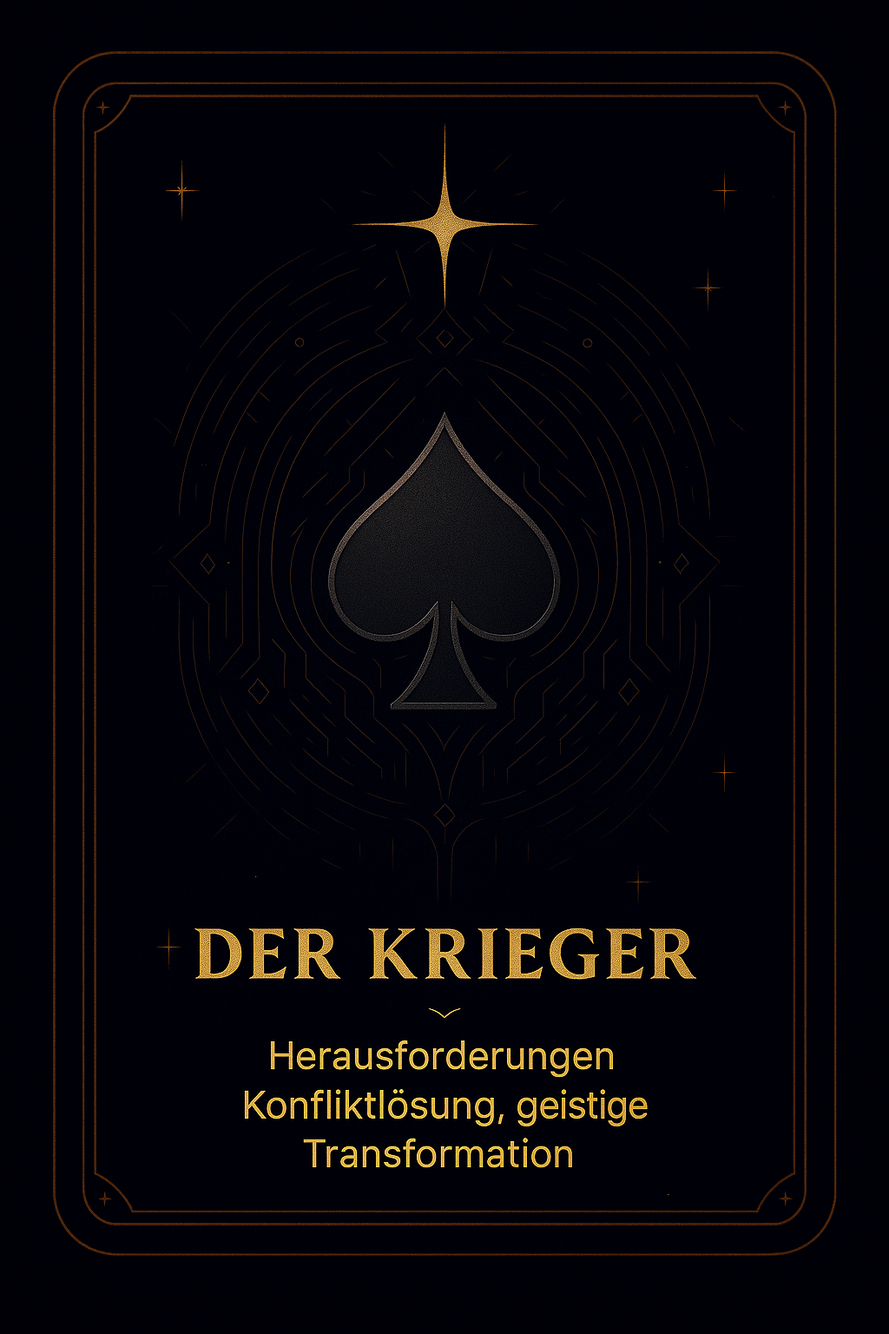
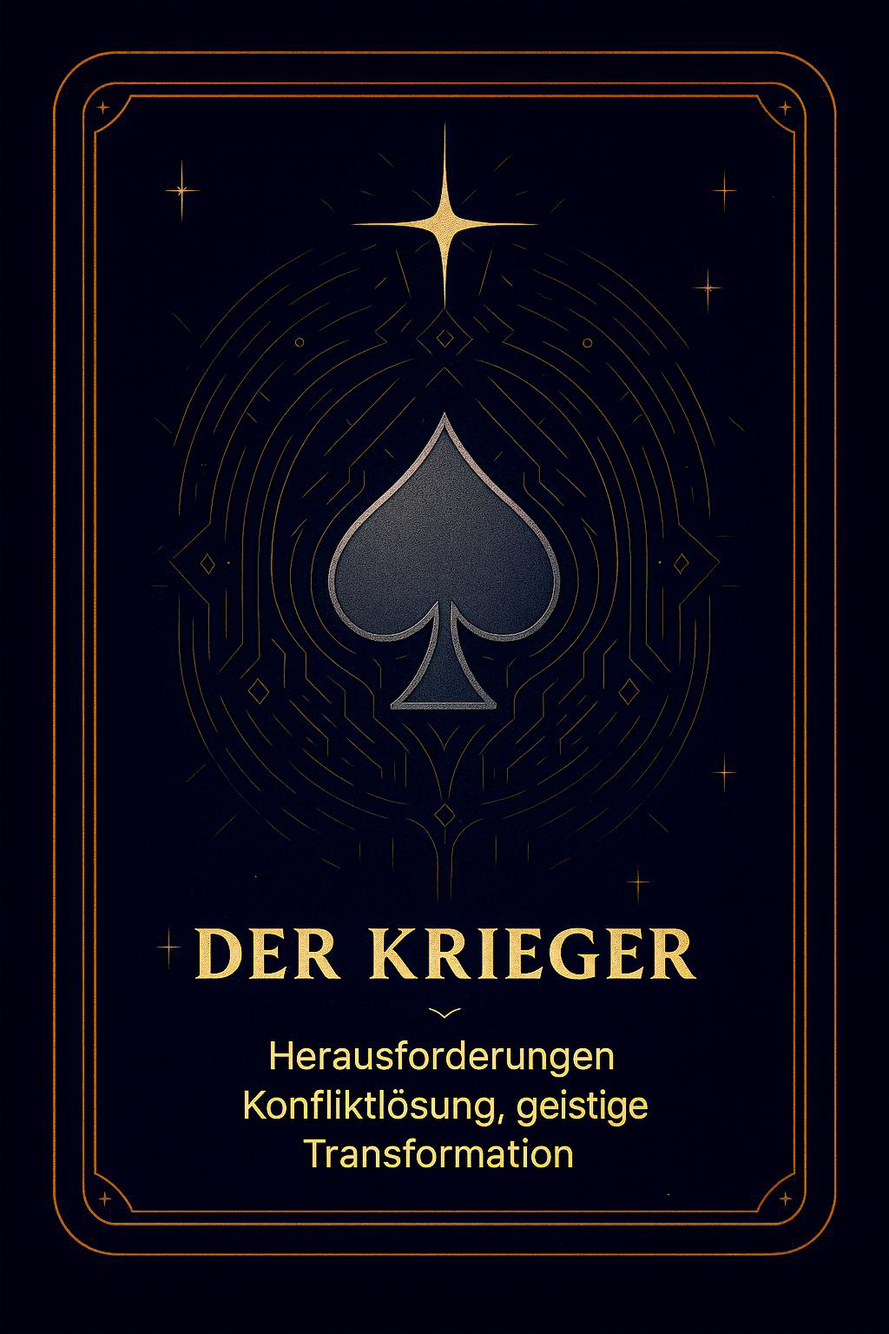
patch of last work days

diff --git a/app.js b/app.js
@@ -113,18 +113,107 @@ function createFateCore(registry, opts = {}) {
 // ...existing code...
 
 
-// VisualFX scaffold (no-op baseline to preserve current visuals)
+// VisualFX: ambient canvas with twinkles + rings and simple particles
 ;(function(){
+  let ctx = null, canvas = null, raf = null, dpr = 1;
+  let color = '#ffffff';
+  const stars = [];
+  let pulse = 0, pulseV = 0; // ring pulse
+
+  function pick(arr){ return arr[Math.floor(Math.random()*arr.length)]; }
+
   function initFX(canvasId){
-    var c = document.getElementById(canvasId);
-    if(!c) return;
-    function resize(){ c.width = window.innerWidth; c.height = window.innerHeight; }
+    canvas = document.getElementById(canvasId);
+    if(!canvas) return;
+    ctx = canvas.getContext('2d');
+    const media = window.matchMedia('(prefers-reduced-motion: reduce)');
+    function resize(){
+      dpr = Math.max(1, window.devicePixelRatio || 1);
+      canvas.width = Math.floor(window.innerWidth * dpr);
+      canvas.height = Math.floor(window.innerHeight * dpr);
+      canvas.style.width = window.innerWidth + 'px';
+      canvas.style.height = window.innerHeight + 'px';
+    }
     resize();
     window.addEventListener('resize', resize);
-    // No drawing yet to keep visuals identical
+
+    // seed twinkles
+    stars.length = 0;
+    for(let i=0;i<60;i++){
+      stars.push({
+        x: Math.random(), y: Math.random(), r: Math.random()*1.2+0.2, sp: Math.random()*0.6+0.2,
+      });
+    }
+
+    function loop(t){
+      const W = canvas.width, H = canvas.height;
+      ctx.clearRect(0,0,W,H);
+
+      // nebula tint
+      const g = ctx.createRadialGradient(W*0.5, H*0.35, 0, W*0.5, H*0.5, Math.max(W,H)*0.7);
+      g.addColorStop(0, hexToRgba(color, 0.08));
+      g.addColorStop(1, 'rgba(0,0,0,0)');
+      ctx.fillStyle = g; ctx.fillRect(0,0,W,H);
+
+      // twinkles
+      ctx.globalCompositeOperation = 'lighter';
+      for(const s of stars){
+        const a = (Math.sin(t*s.sp/800)+1)/2; // 0..1
+        ctx.fillStyle = hexToRgba(color, 0.12 + a*0.22);
+        const x = s.x*W, y = s.y*H; const rr = (s.r + a*0.8)*dpr;
+        ctx.beginPath(); ctx.arc(x,y,rr,0,Math.PI*2); ctx.fill();
+      }
+
+      // pulse rings
+      if(pulse > 0.001 && !media.matches){
+        pulse += pulseV; pulseV *= 0.985; pulse *= 0.985;
+        const cx = W*0.5, cy = H*0.5;
+        for(let i=0;i<3;i++){
+          ctx.strokeStyle = hexToRgba(color, 0.25 * Math.max(0, (pulse - i*0.15)));
+          ctx.lineWidth = Math.max(1, 2*dpr);
+          ctx.beginPath();
+          ctx.arc(cx, cy, Math.max(W,H)*0.12 + (pulse-i*0.15)*Math.max(W,H)*0.25, 0, Math.PI*2);
+          ctx.stroke();
+        }
+      }
+
+      ctx.globalCompositeOperation = 'source-over';
+      raf = requestAnimationFrame(loop);
+    }
+    if(raf) cancelAnimationFrame(raf);
+    raf = requestAnimationFrame(loop);
   }
-  function updateAmbient(suit){ /* no-op baseline */ }
-  function shootParticles(x, y, opts){ /* no-op baseline */ }
+
+  function updateAmbient(suit, opts={}){
+    const palette = {
+      hearts: '#ef4444', diamonds: '#3b82f6', clubs: '#10b981', spades: '#374151', schelm: '#f59e0b', stern: '#8b5cf6', default: '#ffffff'
+    };
+    color = palette[suit] || palette.default;
+    const strength = Math.max(0, Math.min(1, opts.intensity ?? 0.6));
+    pulse = Math.max(pulse, 0.5*strength);
+    pulseV = Math.max(pulseV, 0.08*strength);
+  }
+
+  function shootParticles(x, y, opts={}){
+    // lightweight radial burst at viewport coords
+    if(!ctx || !canvas) return;
+    const W = canvas.width, H = canvas.height;
+    const dprLocal = Math.max(1, window.devicePixelRatio||1);
+    const px = x*dprLocal, py = y*dprLocal;
+    const col = opts.color || color;
+    for(let i=0;i<14;i++){
+      const ang = Math.random()*Math.PI*2; const r = Math.random()*30*dprLocal;
+      ctx.fillStyle = hexToRgba(col, 0.35);
+      ctx.beginPath(); ctx.arc(px+Math.cos(ang)*r, py+Math.sin(ang)*r, Math.random()*2+0.5, 0, Math.PI*2); ctx.fill();
+    }
+  }
+
+  function hexToRgba(hex, a){
+    const m = /^#?([\da-f]{2})([\da-f]{2})([\da-f]{2})$/i.exec(hex);
+    if(!m) return `rgba(255,255,255,${a||1})`;
+    return `rgba(${parseInt(m[1],16)},${parseInt(m[2],16)},${parseInt(m[3],16)},${a||1})`;
+  }
+
   window.VisualFX = { initFX, updateAmbient, shootParticles };
 })();
 
@@ -273,8 +362,23 @@ const { createFateCore } = window.FortuneCore;
 
 
         const BonusBadge = () => (
-            <div className="absolute -top-3 right-3 text-[10px] px-2 py-1 rounded-full bg-white/80 text-black font-semibold" aria-label="Bonus-Farbe">BONUS</div>
+            <div className="absolute top-2 right-2 text-[10px] px-2 py-1 rounded-md bg-white/90 text-black font-bold shadow-md border border-white/60" aria-label="Bonus-Farbe">BONUS</div>
         );
+
+        const GlitchBadge = () => (
+            <div className="absolute top-2 left-2 text-[10px] px-2 py-1 rounded-md bg-red-500/90 text-white font-extrabold shadow-md border border-white/30" aria-label="Glitch-Modus">GLITCH</div>
+        );
+
+        const GlitchProgress = ({ value, max = 8 }) => {
+            const clamped = Math.max(0, Math.min(max, value));
+            return (
+                <div className="glitch-progress" role="status" aria-label={`Glitch-Fortschritt ${clamped}/${max}`}>
+                    {Array.from({ length: max }).map((_, i) => (
+                        <span key={i} className={`seg ${i < clamped ? 'on' : ''}`}></span>
+                    ))}
+                </div>
+            );
+        };
 
         const ChainMeter = ({ value }) => {
             const maxNodes = 5;
@@ -336,6 +440,8 @@ const { createFateCore } = window.FortuneCore;
             const [imageError, setImageError] = useState(false);
             const audioRef = useRef(null);
             const fireworkTimeoutRef = useRef(null);
+            const glitchCanvasRef = useRef(null);
+            const glitchAnimRef = useRef(null);
 
             const core = useMemo(() => createFateCore(SUIT_REGISTRY), []);
 
@@ -380,6 +486,112 @@ const { createFateCore } = window.FortuneCore;
                     clearTimeout(fireworkTimeoutRef.current);
                 }
             }, []);
+
+            // Init ambient background FX once
+            useEffect(() => {
+                try { window.VisualFX && window.VisualFX.initFX && window.VisualFX.initFX('veil-bg'); } catch {}
+            }, []);
+
+            // Pulse ambient FX when a reading arrives (stronger on higher glitch levels)
+            useEffect(() => {
+                if (!currentReading) return;
+                try {
+                    const suit = currentReading.suit;
+                    const strong = currentReading.glitch ? Math.min(1, (glitchChain || 1) / 6) : 0.4;
+                    window.VisualFX && window.VisualFX.updateAmbient && window.VisualFX.updateAmbient(suit, { intensity: strong });
+                } catch {}
+            }, [currentReading, glitchChain]);
+
+            // Level 4 canvas overlay: echo phantoms orbiting around the card
+            useEffect(() => {
+                const canvas = glitchCanvasRef.current;
+                const holder = canvas?.parentElement;
+                if (!canvas || !holder) return;
+                const level = currentReading?.glitch ? Math.min(6, Math.max(1, glitchChain || 1)) : 0;
+
+                // Resize canvas to match holder's CSS pixels
+                const resize = () => {
+                    const rect = holder.getBoundingClientRect();
+                    const dpr = Math.max(1, window.devicePixelRatio || 1);
+                    canvas.width = Math.floor(rect.width * dpr);
+                    canvas.height = Math.floor(rect.height * dpr);
+                    canvas.style.width = rect.width + 'px';
+                    canvas.style.height = rect.height + 'px';
+                };
+                resize();
+
+                let raf = null;
+                const ctx = canvas.getContext('2d');
+                const color = getSuitMeta(currentReading?.suit || 'hearts').flash;
+                let t0 = performance.now();
+
+                function roundRectPath(ctx, x, y, w, h, r){
+                    const rr = Math.min(r, Math.min(w, h) / 2);
+                    ctx.beginPath();
+                    ctx.moveTo(x + rr, y);
+                    ctx.arcTo(x + w, y, x + w, y + h, rr);
+                    ctx.arcTo(x + w, y + h, x, y + h, rr);
+                    ctx.arcTo(x, y + h, x, y, rr);
+                    ctx.arcTo(x, y, x + w, y, rr);
+                    ctx.closePath();
+                }
+
+                const animate = (now) => {
+                    const dt = (now - t0) / 1000;
+                    t0 = now;
+                    const dpr = Math.max(1, window.devicePixelRatio || 1);
+                    const W = canvas.width;
+                    const H = canvas.height;
+                    ctx.clearRect(0, 0, W, H);
+
+                    if (prefersReducedMotion || level < 4) return; // draw nothing for low level
+
+                    // Echos orbit around the center
+                    const cx = W/2, cy = H/2;
+                    const baseW = W * 0.86;
+                    const baseH = H * 0.86;
+                    const radius = Math.min(baseW, baseH) * 0.055;
+                    const ghosts = 3;
+                    for (let i=0;i<ghosts;i++){
+                        const ang = (now/900 + i * (Math.PI*2/ghosts));
+                        const dx = Math.cos(ang) * (W * 0.02);
+                        const dy = Math.sin(ang) * (H * 0.02);
+                        const ox = cx - baseW/2 + dx;
+                        const oy = cy - baseH/2 + dy;
+                        ctx.globalCompositeOperation = 'lighter';
+                        ctx.lineWidth = Math.max(1, 2 * dpr);
+                        ctx.strokeStyle = color;
+                        ctx.globalAlpha = 0.18;
+                        roundRectPath(ctx, ox, oy, baseW, baseH, radius);
+                        ctx.stroke();
+                    }
+
+                    // Soft radial bloom
+                    const grd = ctx.createRadialGradient(cx, cy, 0, cx, cy, Math.max(W,H)/2);
+                    grd.addColorStop(0, 'rgba(255,255,255,0.10)');
+                    grd.addColorStop(1, 'rgba(255,255,255,0)');
+                    ctx.globalAlpha = 0.4;
+                    ctx.globalCompositeOperation = 'lighter';
+                    ctx.fillStyle = grd;
+                    ctx.fillRect(0,0,W,H);
+
+                    raf = requestAnimationFrame(animate);
+                };
+
+                if (level >= 4 && !prefersReducedMotion) {
+                    raf = requestAnimationFrame(animate);
+                }
+
+                glitchAnimRef.current = raf;
+                window.addEventListener('resize', resize);
+                return () => {
+                    window.removeEventListener('resize', resize);
+                    if (glitchAnimRef.current) cancelAnimationFrame(glitchAnimRef.current);
+                    glitchAnimRef.current = null;
+                    const ctx2 = canvas.getContext('2d');
+                    ctx2 && ctx2.clearRect(0,0,canvas.width, canvas.height);
+                };
+            }, [currentReading, glitchChain, prefersReducedMotion]);
 
             const drawFateCard = () => {
                 if (isDrawing) return;
@@ -549,13 +761,22 @@ const { createFateCore } = window.FortuneCore;
                                     <div
                                         className={`card-holder card-reel ${buildGlitchClass(currentReading)} animate-cardFromDeck ${
                                             SUIT_FONT_CLASS[currentReading.suit] || ''
-                                        }`}
-                                        style={{ '--card-color-flash': getSuitMeta(currentReading.suit).flash }}
+                                        } cursor-pointer`}
+                                        style={{
+                                            '--card-color-flash': getSuitMeta(currentReading.suit).flash,
+                                            '--g-intensity': Math.min(4, Math.max(0, glitchChain || 0)),
+                                        }}
                                         data-suit={currentReading.suit}
+                                        data-glitch-level={currentReading.glitch ? Math.min(6, Math.max(1, glitchChain || 1)) : 0}
+                                        role="button"
+                                        aria-label="Erneut ziehen"
+                                        title="Erneut ziehen"
+                                        onClick={() => { if (!isDrawing) drawFateCard(); }}
                                     >
                                         {currentReading.glitch && glitchChain > 0 && (
                                             <div className="chain-chip">KETTE x{glitchChain}</div>
                                         )}
+                                        {currentReading.glitch && <GlitchBadge />}
                                         {SUIT_IMAGES[currentReading.suit] && !imageError ? (
                                             <img
                                                 src={SUIT_IMAGES[currentReading.suit]}
@@ -571,12 +792,15 @@ const { createFateCore } = window.FortuneCore;
                                             </div>
                                         )}
                                         {(currentReading.suit === 'schelm' || currentReading.suit === 'stern') && <BonusBadge />}
+                                        <canvas ref={glitchCanvasRef} className="glitch-canvas" aria-hidden="true" />
+                                        <div className="glitch-overlay" aria-hidden="true"></div>
                                         <div className="foil-shine" aria-hidden="true"></div>
                                         <div className="edge-highlight" aria-hidden="true"></div>
                                         <div className="inner-shadow" aria-hidden="true"></div>
                                     </div>
                                     <h3 className="text-2xl font-bold text-white mt-4">{currentReading.archetype}</h3>
                                     <p className="text-white/90 font-medium">{currentReading.name} • {currentReading.element}</p>
+                                    {currentReading.glitch && <GlitchProgress value={glitchChain} />}
                                     {glitchChain > 0 && <ChainMeter value={glitchChain} />}
                                     {showInterpretation && (
                                         <div className={currentReading.glitch ? 'interpretation-glitch' : 'animate-fadeIn'}>

diff --git a/styles.css b/styles.css
@@ -282,7 +282,7 @@
         .draw-field::after { content: ""; position: absolute; inset: -6vh -6vw; pointer-events: none; background: radial-gradient(ellipse at 50% 45%, rgba(0,0,0,0) 55%, rgba(0,0,0,.32) 100%); opacity: 0; animation: screenVignette var(--dur-m, .8s) ease-out .15s both; }
         @keyframes screenVignette { 0% { opacity: 0; } 40% { opacity: .18; } 100% { opacity: 0; } }
 
-        .shockwave-layer { position: absolute; left: 50%; top: 0; transform: translateX(-50%); width: 260px; height: 260px; border-radius: 9999px; border: 2px solid var(--card-color-flash, #ffffff); opacity: 0; pointer-events: none; z-index: 0; }
+        .shockwave-layer { position: absolute; left: 50%; top: 0; transform: translateX(-50%); width: clamp(180px, 30vw, 280px); height: clamp(180px, 30vw, 280px); border-radius: 9999px; border: 2px solid var(--card-color-flash, #ffffff); opacity: 0; pointer-events: none; z-index: 0; }
         .shockwave-layer::before, .shockwave-layer::after { content: ""; position: absolute; inset: 0; border-radius: inherit; pointer-events: none; }
         .shockwave-layer::before { border: 2px solid var(--card-color-flash, #fff); opacity: 0; }
         .shockwave-layer::after { inset: -10px; box-shadow: 0 0 40px var(--card-color-flash, #fff), 0 0 80px rgba(255,255,255,.25) inset; opacity: 0; }
@@ -419,14 +419,61 @@
 
 
         /* ---- Full-card image face & overlays ---- */
-        .card-holder { position: relative; display: inline-block; width: clamp(240px, 60vw, 420px); aspect-ratio: 63/88; border-radius: 20px; overflow: hidden; border: 4px solid rgba(255,255,255,.30); box-shadow: 0 24px 60px rgba(0,0,0,.35), 0 8px 24px rgba(0,0,0,.25); background: radial-gradient(60% 60% at 50% 35%, rgba(255,255,255,.08), rgba(255,255,255,0) 60%); }
-        .card-face-img { position: absolute; inset: 0; width: 100%; height: 100%; object-fit: contain; display: block; border-radius: inherit; }
+        /* Card face tuned to real 63x88 aspect, radius ≈5.5% */
+        .card-holder { --card-radius: 5.5%; position: relative; display: inline-block; width: clamp(170px, 24vw, 260px); aspect-ratio: 63/88; border-radius: var(--card-radius); overflow: hidden; border: 3px solid rgba(255,255,255,.30); box-shadow: 0 28px 70px rgba(0,0,0,.40), 0 10px 28px rgba(0,0,0,.30); background: radial-gradient(60% 60% at 50% 35%, rgba(255,255,255,.06), rgba(255,255,255,0) 60%); filter: drop-shadow(0 0 18px color-mix(in srgb, var(--card-color-flash, #fff) 55%, transparent)) drop-shadow(0 0 40px color-mix(in srgb, var(--card-color-flash, #fff) 40%, transparent)); }
+        .card-face-img { position: absolute; inset: 0; width: 100%; height: 100%; object-fit: contain; object-position: 50% 50%; display: block; border-radius: var(--card-radius); transform: scale(var(--card-zoom, 1.048)); transform-origin: 50% 50%; }
         .card-face-fallback { position: absolute; inset: 0; display: flex; align-items: center; justify-content: center; border-radius: inherit; background: linear-gradient(180deg, rgba(255,255,255,.06), rgba(255,255,255,0)); color: #fff; }
         .card-face-fallback .fallback-symbol { font-size: clamp(48px, 12vw, 96px); text-shadow: 0 2px 10px rgba(0,0,0,.4); filter: drop-shadow(0 0 10px rgba(255,255,255,.25)); }
-        .foil-shine { position: absolute; inset: 0; pointer-events: none; border-radius: inherit; background: linear-gradient(115deg, rgba(255,255,255,0) 40%, rgba(255,255,255,.45) 50%, rgba(255,255,255,0) 60%), radial-gradient(closest-side, color-mix(in srgb, var(--card-color-flash, #fff) 35%, transparent) 0%, rgba(255,255,255,0) 60%); background-repeat: no-repeat; background-size: 220% 100%, 100% 100%; background-position: -140% 0, 50% 50%; animation: foilSweep 2.4s ease-out .3s both; mix-blend-mode: screen; opacity: .32; }
+        .foil-shine { position: absolute; inset: 0; pointer-events: none; border-radius: var(--card-radius); background: linear-gradient(115deg, rgba(255,255,255,0) 40%, rgba(255,255,255,.55) 50%, rgba(255,255,255,0) 60%), radial-gradient(closest-side, color-mix(in srgb, var(--card-color-flash, #fff) 45%, transparent) 0%, rgba(255,255,255,0) 60%); background-repeat: no-repeat; background-size: 220% 100%, 100% 100%; background-position: -140% 0, 50% 50%; animation: foilSweep 2.8s ease-out .2s both; mix-blend-mode: screen; opacity: .36; }
         @keyframes foilSweep { 0% { background-position: -160% 0, 50% 50%; opacity: .18; } 100% { background-position: 160% 0, 50% 50%; opacity: .32; } }
-        .edge-highlight { position: absolute; inset: 0; border-radius: inherit; pointer-events: none; box-shadow: inset 0 0 0 1px rgba(255,255,255,.45), inset 0 0 0 6px rgba(255,255,255,.08); }
-        .inner-shadow { position: absolute; inset: 0; border-radius: inherit; pointer-events: none; box-shadow: inset 0 24px 56px rgba(0,0,0,.35), inset 0 -18px 32px rgba(0,0,0,.25); }
+        .edge-highlight { position: absolute; inset: 0; border-radius: var(--card-radius); pointer-events: none; box-shadow: inset 0 0 0 1px rgba(255,255,255,.55), inset 0 0 0 6px rgba(255,255,255,.10); }
+        .inner-shadow { position: absolute; inset: 0; border-radius: var(--card-radius); pointer-events: none; box-shadow: inset 0 24px 56px rgba(0,0,0,.42), inset 0 -18px 32px rgba(0,0,0,.28); }
+
+        /* magical border rings aligned to radius */
+        .card-holder::before, .card-holder::after { content: ""; position: absolute; inset: -2px; border-radius: var(--card-radius); pointer-events: none; }
+        .card-holder::before { box-shadow: 0 0 0 2px color-mix(in srgb, var(--card-color-flash,#fff) 70%, transparent), 0 0 30px color-mix(in srgb, var(--card-color-flash,#fff) 40%, transparent), 0 0 60px color-mix(in srgb, var(--card-color-flash,#fff) 28%, transparent); opacity: .9; }
+        .card-holder::after { inset: -6px; border-radius: var(--card-radius); box-shadow: 0 0 0 1px rgba(255,255,255,.35), 0 0 24px rgba(255,255,255,.18) inset; mix-blend-mode: screen; opacity: .7; }
+
+        /* Glitch overlay host */
+        .glitch-overlay { position: absolute; inset: 0; border-radius: var(--card-radius); pointer-events: none; }
+        .card-holder[data-glitch-level="0"] .glitch-overlay { display: none; }
+        /* Level 1: soft scanlines + micro RGB fringe */
+        .card-holder[data-glitch-level="1"] { filter: drop-shadow(1px 0 rgba(255,0,0,.35)) drop-shadow(-1px 0 rgba(0,255,255,.35)) drop-shadow(0 0 16px color-mix(in srgb, var(--card-color-flash,#fff) 40%, transparent)); }
+        .card-holder[data-glitch-level="1"] .glitch-overlay { background: repeating-linear-gradient(0deg, rgba(255,255,255,.05) 0 1px, rgba(255,255,255,0) 1px 3px); opacity: .25; mix-blend-mode: screen; animation: gScan 1.2s linear infinite; }
+        @keyframes gScan { 0% { background-position: 0 0; } 100% { background-position: 0 6px; } }
+        @keyframes gStutter { 0% { transform: none; } 50% { transform: translateX(3px); } 100% { transform: none; } }
+        /* Level 2: stutter + shears */
+        .card-holder[data-glitch-level="2"] { animation: gStutter 220ms steps(2,end) 1; }
+        .card-holder[data-glitch-level="2"] .glitch-overlay { background:
+            linear-gradient(0deg, transparent 0%, transparent 18%, rgba(255,255,255,.10) 18% 28%, transparent 28% 100%),
+            repeating-linear-gradient(0deg, rgba(255,255,255,.05) 0 2px, transparent 2px 4px);
+            mix-blend-mode: screen; opacity: .32; animation: shearShift 220ms steps(2,end) 1; }
+        @keyframes shearShift { 0% { transform: none; } 50% { transform: translateX(4px); } 100% { transform: none; } }
+        /* Level 3: parallax slices + lens pulse */
+        .card-holder[data-glitch-level="3"] { filter: saturate(1.15) contrast(1.05) drop-shadow(2px 0 rgba(255,0,0,.40)) drop-shadow(-2px 0 rgba(0,255,255,.40)); }
+        .card-holder[data-glitch-level="3"] .glitch-overlay { background:
+            linear-gradient(0deg, rgba(255,255,255,.10) 0 8%, transparent 8% 40%, rgba(255,255,255,.10) 40% 48%, transparent 48% 78%, rgba(255,255,255,.08) 78% 86%, transparent 86% 100%),
+            radial-gradient(600px 240px at 50% 45%, rgba(255,255,255,.12), rgba(255,255,255,0) 60%);
+            background-size: 100% 100%, 140% 100%; background-position: 0 0, 50% 50%; mix-blend-mode: screen; opacity: .34; animation: parallaxSlices 420ms ease-out 1; }
+        @keyframes parallaxSlices { 0% { background-position: 0 0, 48% 50%; } 50% { background-position: -6px 0, 52% 52%; } 100% { background-position: 0 0, 50% 50%; } }
+
+        /* Level 5: frame break shards + border desync */
+        .card-holder[data-glitch-level="5"] { animation: frameTilt 420ms cubic-bezier(.2,.9,.2,1) 1; box-shadow: 0 32px 90px rgba(0,0,0,.50), 0 0 36px color-mix(in srgb, var(--card-color-flash,#fff) 55%, transparent); }
+        .card-holder[data-glitch-level="5"] .glitch-overlay::before,
+        .card-holder[data-glitch-level="5"] .glitch-overlay::after { content: ""; position: absolute; inset: -6%; border-radius: inherit; mix-blend-mode: screen; opacity: .55; }
+        .card-holder[data-glitch-level="5"] .glitch-overlay::before { background: linear-gradient(90deg, rgba(255,255,255,.35), rgba(255,255,255,0)); clip-path: polygon(0% 10%, 60% 0%, 38% 30%); animation: shardOutA 280ms ease-out 1; }
+        .card-holder[data-glitch-level="5"] .glitch-overlay::after { background: linear-gradient(90deg, rgba(255,255,255,.25), rgba(255,255,255,0)); clip-path: polygon(100% 90%, 40% 100%, 62% 70%); animation: shardOutB 280ms ease-out 1; }
+        @keyframes frameTilt { 0% { transform: rotate(0deg) translateZ(0); } 30% { transform: rotate(.6deg) translate(1px,-1px); } 100% { transform: rotate(0deg) translateZ(0); } }
+        @keyframes shardOutA { 0% { transform: translate(-4px,-3px); opacity: .0; } 60% { transform: translate(-10px,-7px); opacity: .7; } 100% { transform: translate(0,0); opacity: .0; } }
+        @keyframes shardOutB { 0% { transform: translate(4px,3px); opacity: .0; } 60% { transform: translate(10px,7px); opacity: .6; } 100% { transform: translate(0,0); opacity: .0; } }
+
+        /* Level 6: cosmic interference (lens ripple + saturation) */
+        .card-holder[data-glitch-level="6"] { filter: saturate(1.28) contrast(1.12) drop-shadow(0 0 22px color-mix(in srgb, var(--card-color-flash,#fff) 60%, transparent)); }
+        .card-holder[data-glitch-level="6"] .glitch-overlay { background:
+            radial-gradient(120% 80% at 50% 50%, rgba(255,255,255,.16), rgba(255,255,255,0) 60%),
+            repeating-linear-gradient(0deg, rgba(255,255,255,.05) 0 2px, rgba(255,255,255,0) 2px 5px);
+            mix-blend-mode: screen; opacity: .36; animation: lensRipple 800ms ease-out 1; }
+        @keyframes lensRipple { 0% { transform: scale(1); opacity: .18; } 50% { transform: scale(1.04); opacity: .42; } 100% { transform: scale(1); opacity: .28; } }
 
         /* ---- Recent cards thumbnails ---- */
         .recent-card { position: relative; width: 100%; aspect-ratio: 63/88; border-radius: 12px; overflow: hidden; border: 2px solid rgba(255,255,255,.22); background: rgba(255,255,255,.06); box-shadow: 0 10px 20px rgba(0,0,0,.15); }
@@ -435,6 +482,14 @@
         .recent-card-time { position: absolute; bottom: 6px; left: 6px; right: 6px; text-align: center; font-size: 10px; color: rgba(255,255,255,.9); text-shadow: 0 1px 2px rgba(0,0,0,.6); background: rgba(0,0,0,.18); border-radius: 6px; padding: 2px 6px; }
 
         @media (prefers-reduced-motion: reduce) { .foil-shine { animation: none !important; } }
+
+        /* Glitch canvas overlay */
+        .glitch-canvas { position: absolute; inset: 0; border-radius: var(--card-radius); pointer-events: none; mix-blend-mode: screen; }
+
+        /* Glitch progress bar */
+        .glitch-progress { display: flex; gap: 6px; justify-content: center; align-items: center; margin: 10px auto 0; padding: 4px 6px; border-radius: 9999px; background: rgba(255,255,255,.08); border: 1px solid rgba(255,255,255,.15); width: max-content; }
+        .glitch-progress .seg { width: 10px; height: 10px; border-radius: 50%; background: rgba(255,255,255,.18); box-shadow: 0 0 0 1px rgba(255,255,255,.15) inset; transition: transform .25s ease, background-color .25s ease, box-shadow .25s ease; }
+        .glitch-progress .seg.on { background: color-mix(in srgb, var(--card-color-flash, #fff) 60%, white); box-shadow: 0 0 8px color-mix(in srgb, var(--card-color-flash, #fff) 60%, transparent), 0 0 0 1px rgba(255,255,255,.35) inset; transform: scale(1.1); }
 
 /* Hidden baseline canvas for future FX; does not alter current visuals */
 #veil-bg{position:fixed;inset:0;z-index:0;pointer-events:none;opacity:0;}
